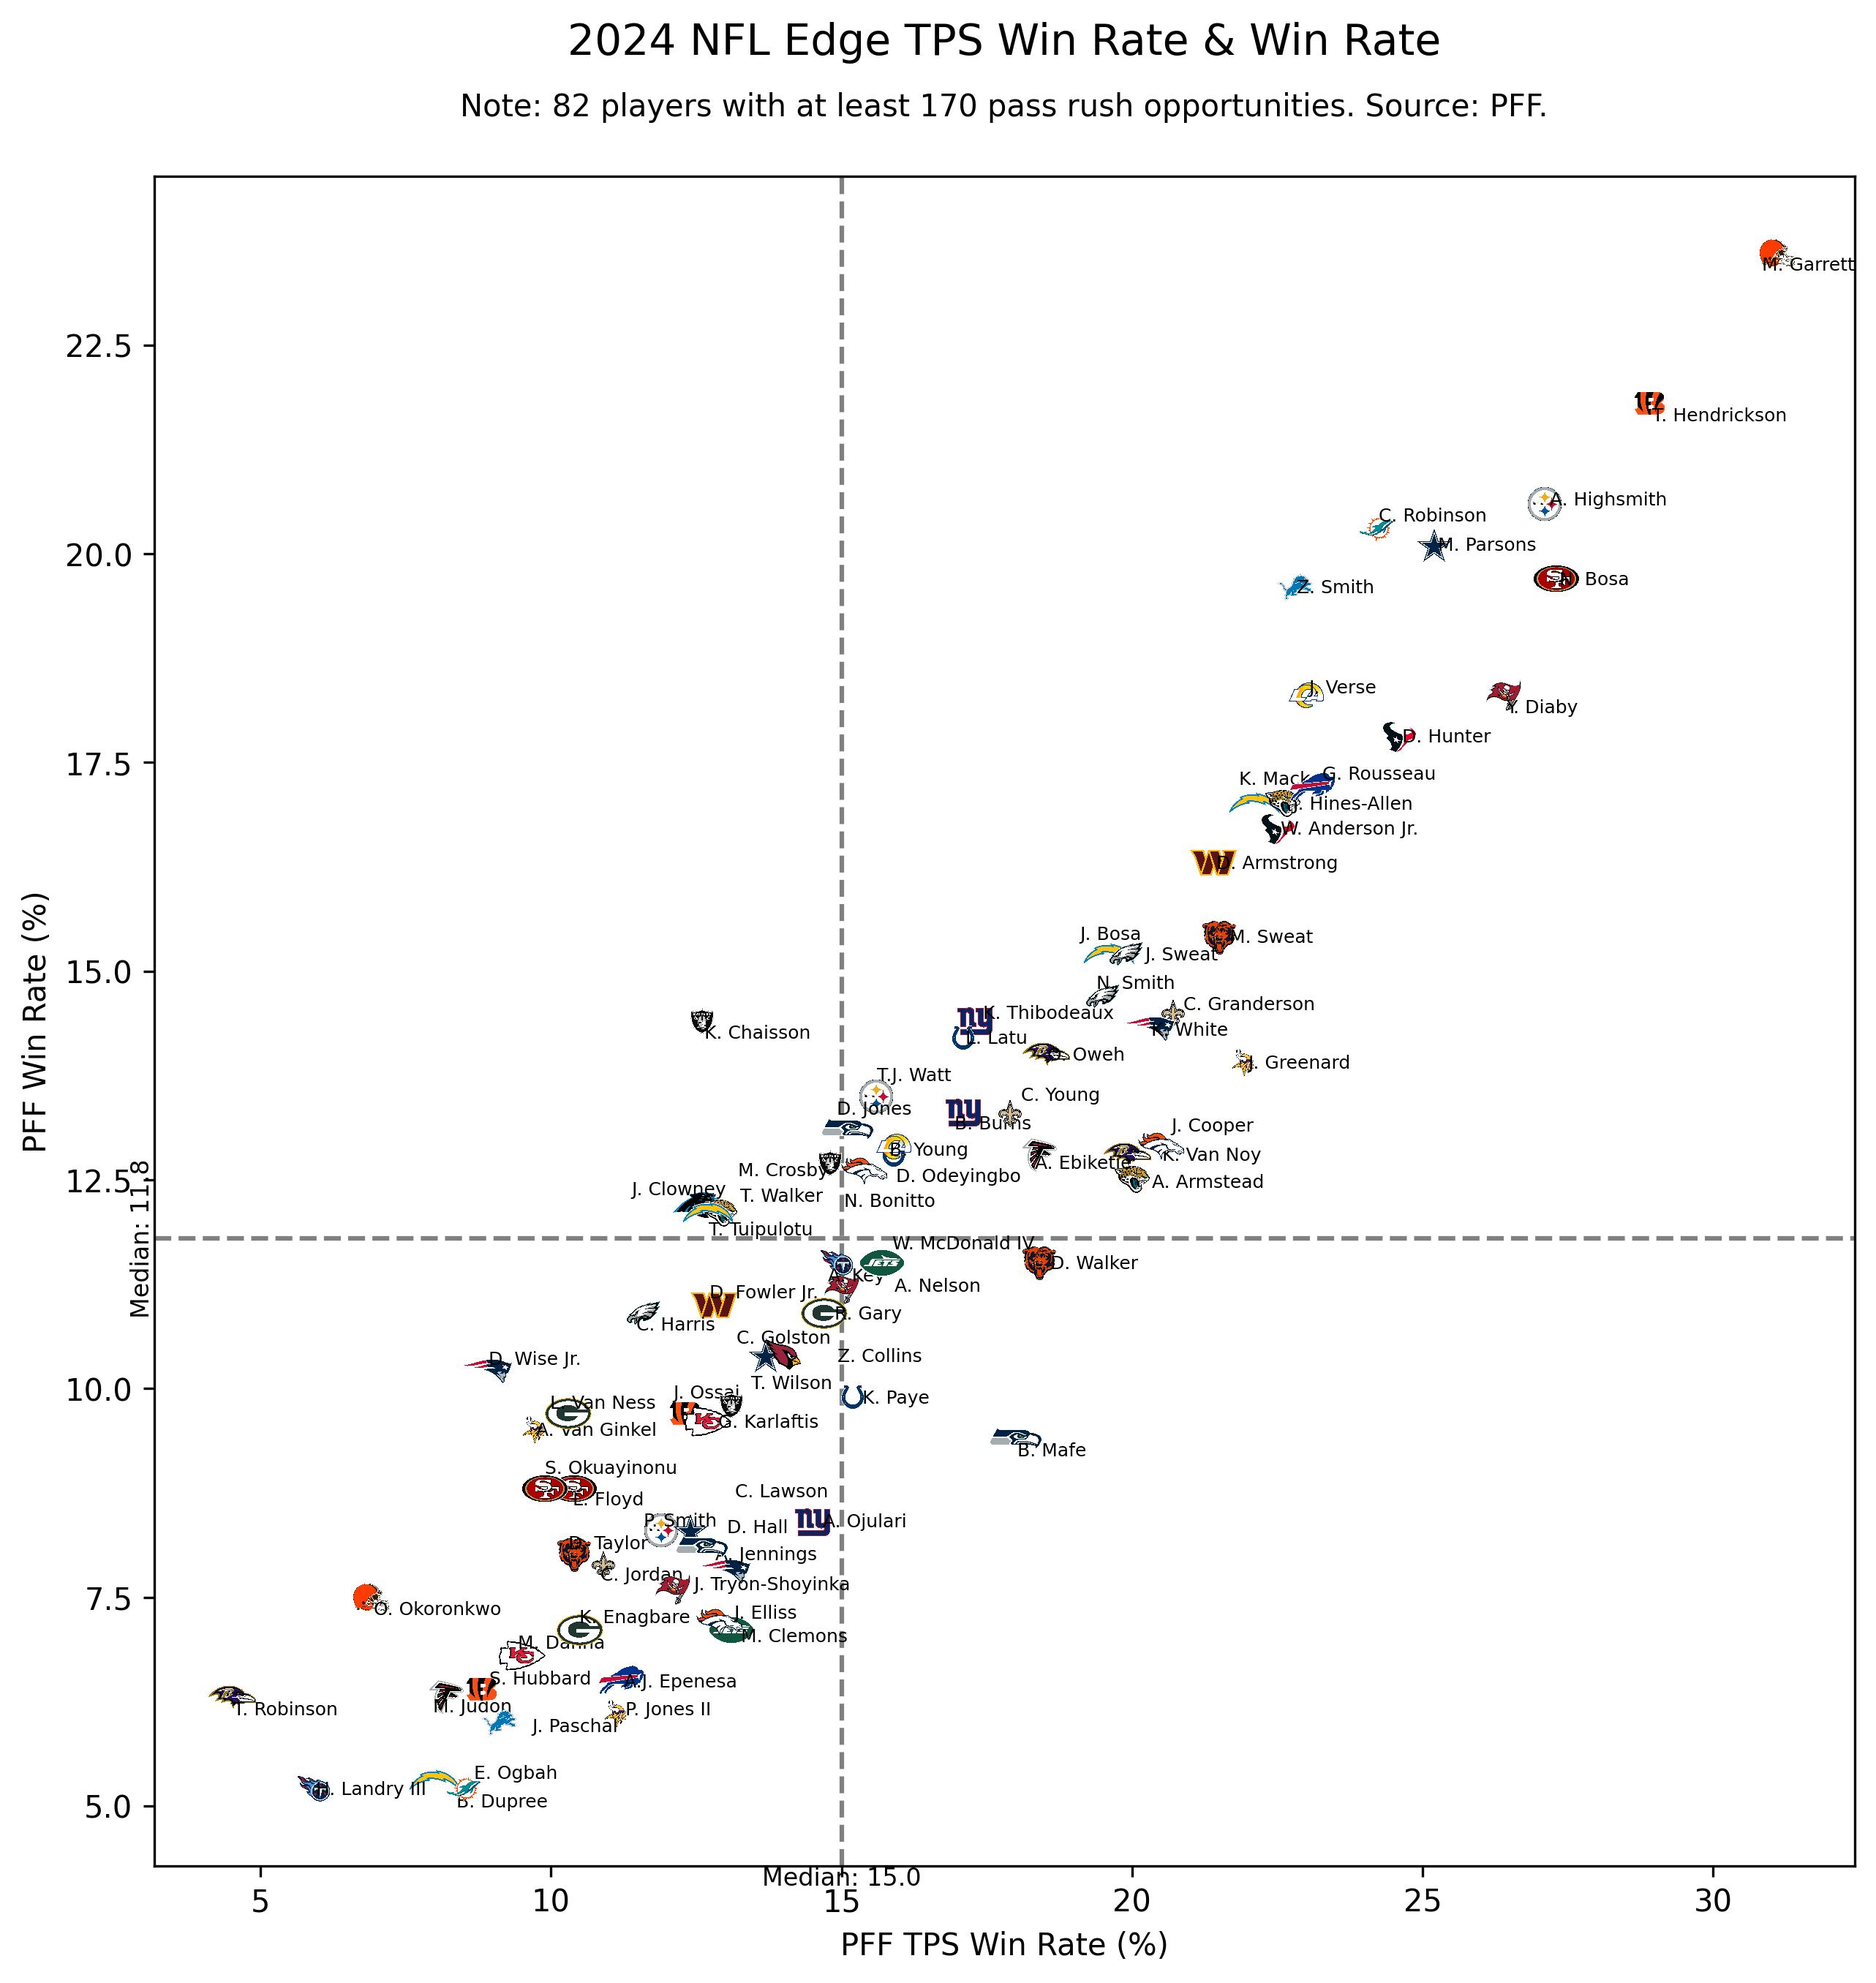
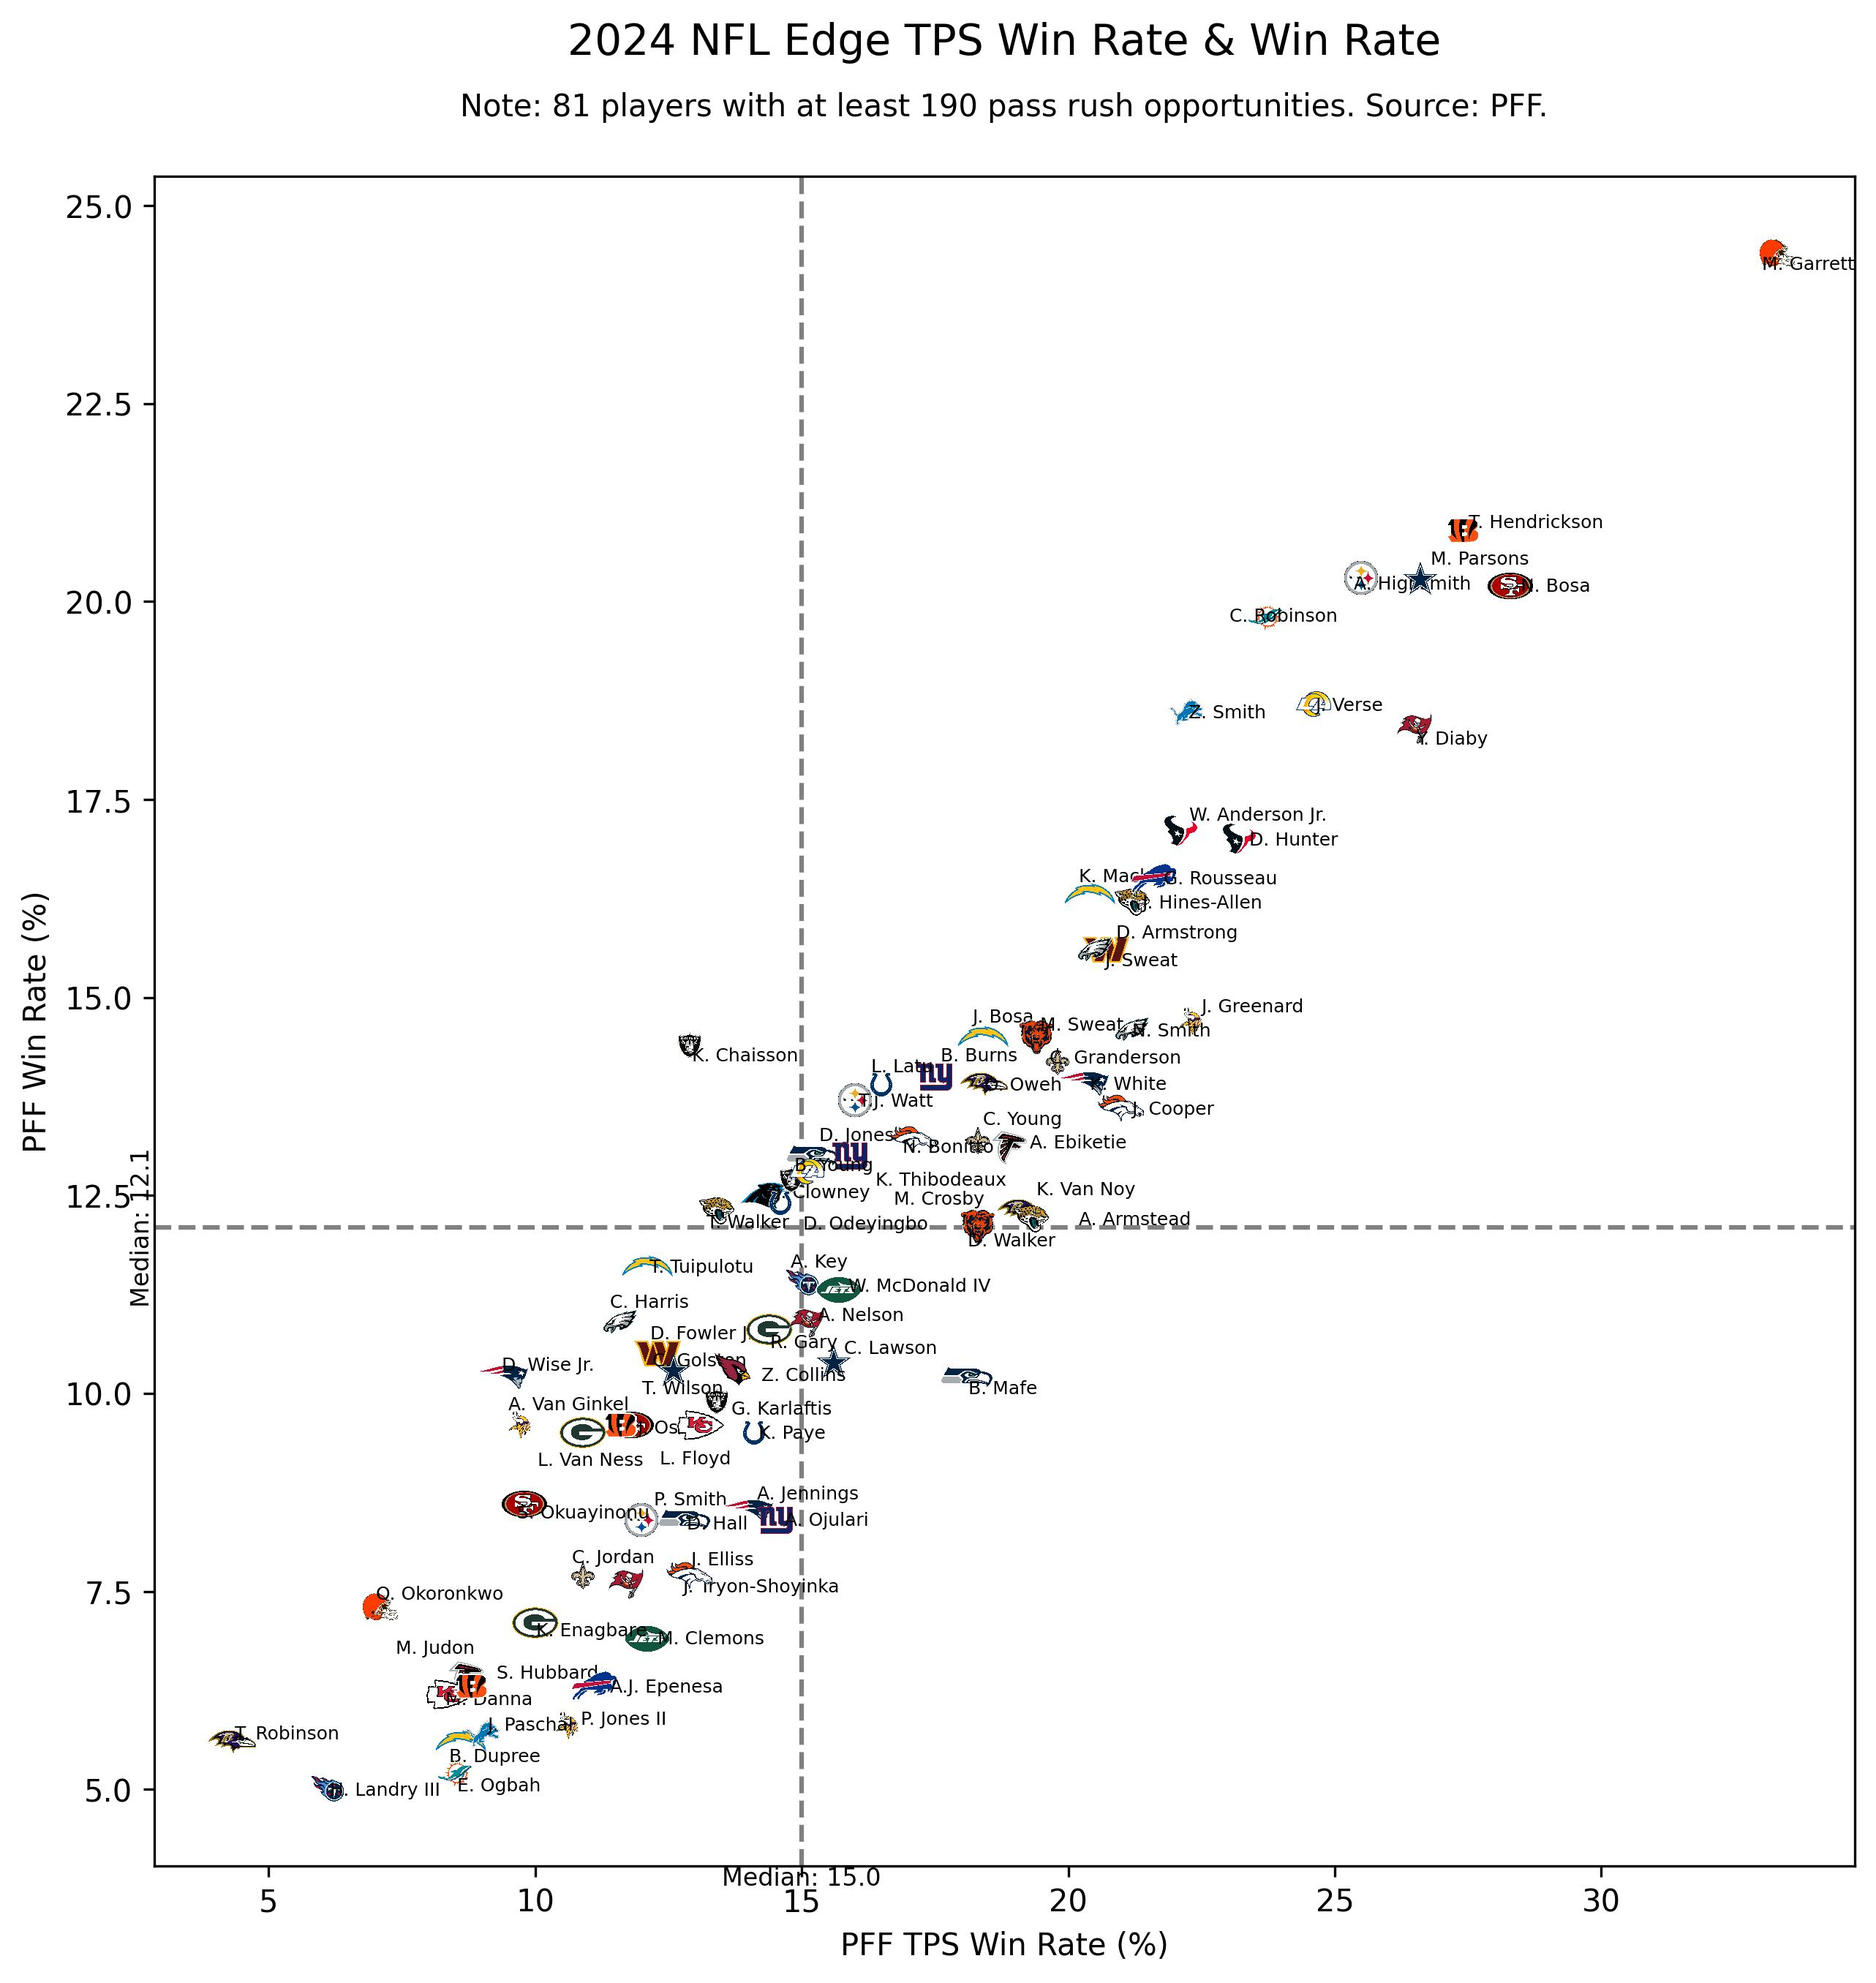
Completed 2024 Week 15.

diff --git a/scatter_plots/pass_rush_plot.py b/scatter_plots/pass_rush_plot.py
@@ -138,7 +138,7 @@ if __name__ == "__main__":
     from config import HAVOC_NOTE
 
     queries = [
-        [2024, "DI", 150], [2024, "ED", 170]
+        [2024, "DI", 150], [2024, "ED", 190]
     ]
     for query_season, query_position, query_threshold in queries:
         plot_pass_rush(
